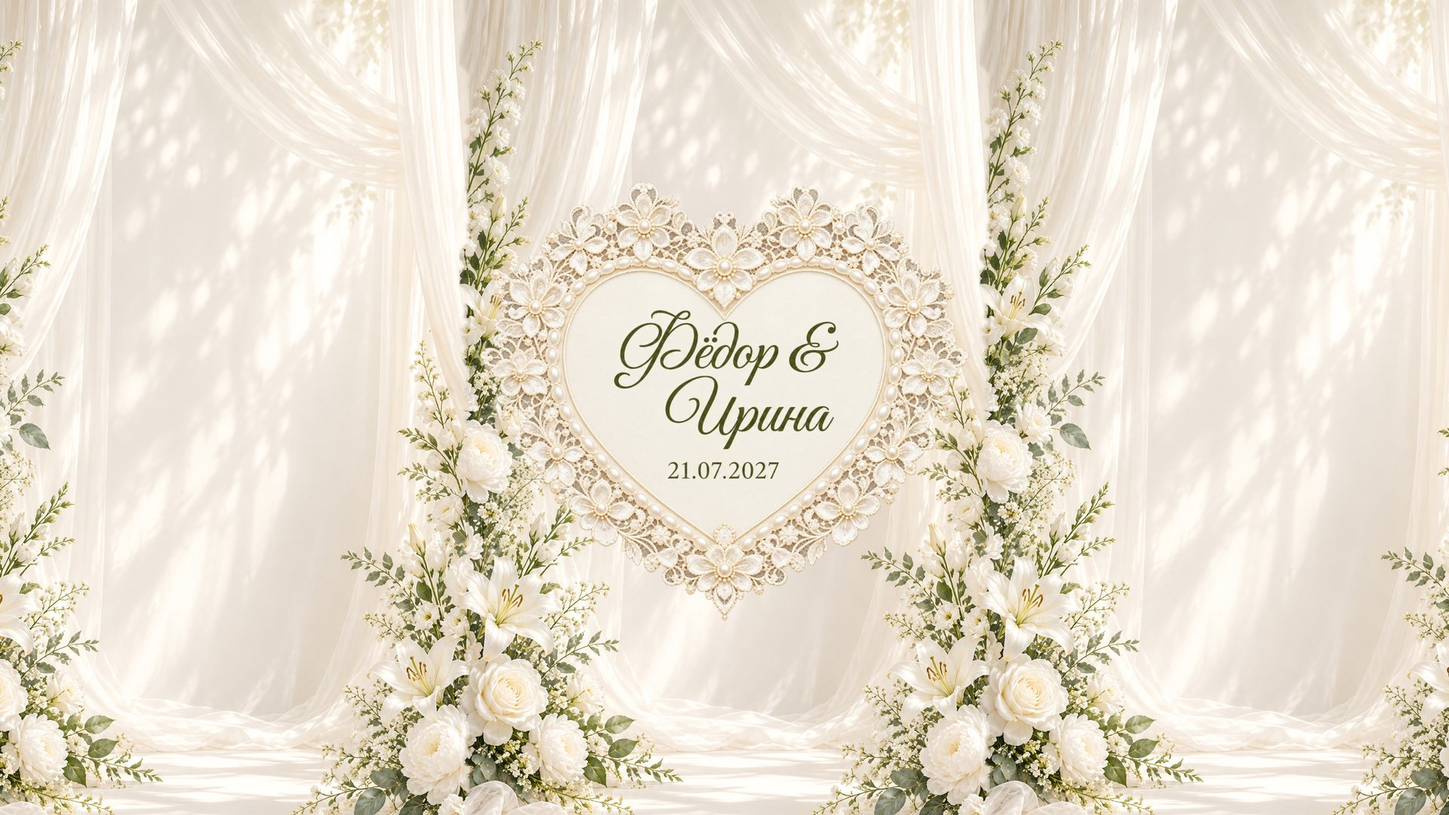
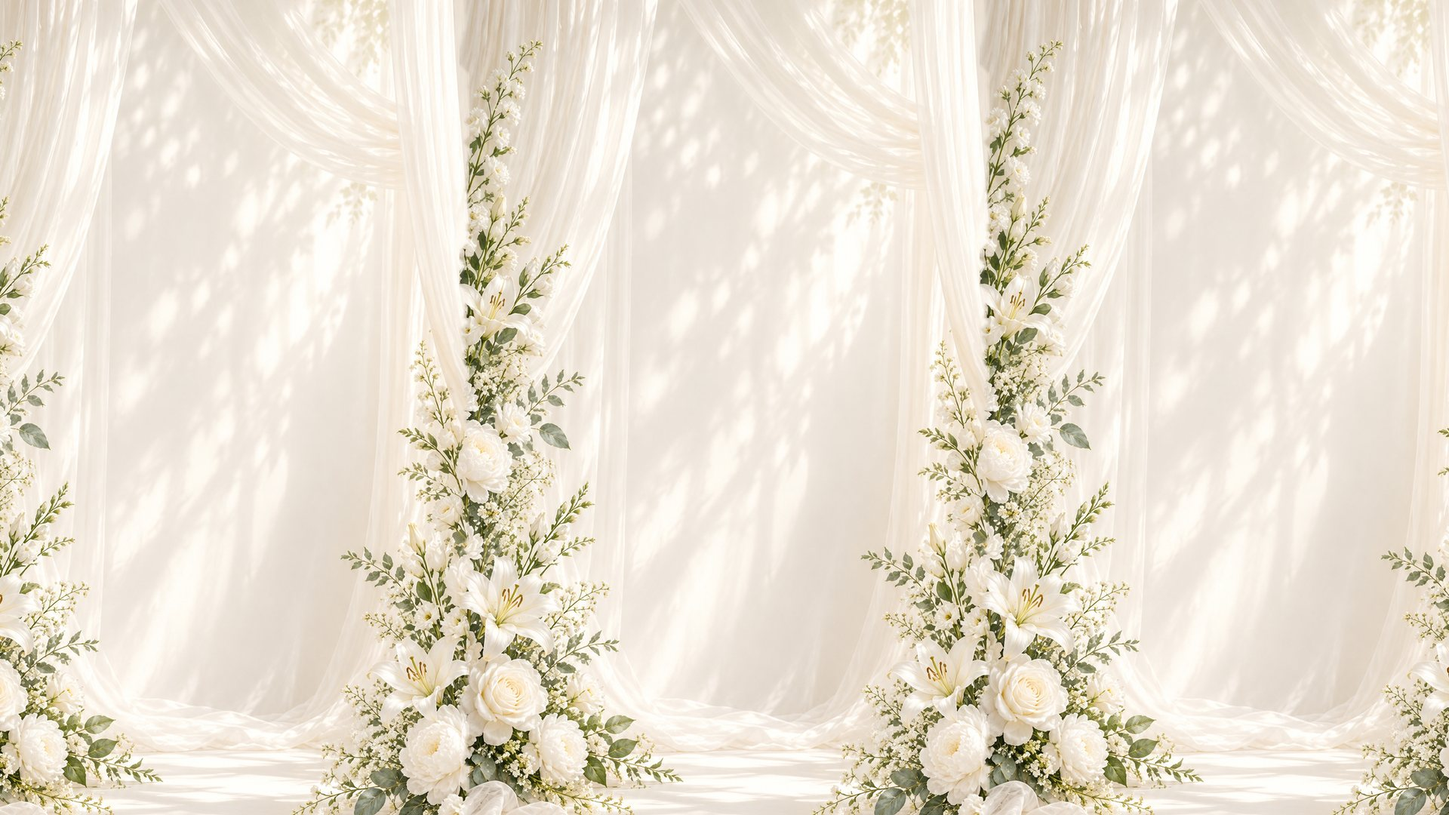
Animate the hero heart, fit the envelope, enlarge the program frame
- Hero: the sent photo split into layers – background without the heart,
  the heart with its centre cleared, the two name lines and the date –
  which together give exactly the photo. After the envelope opens the
  heart rises like the frames below, the names are written with a pen,
  then the date appears
- Envelope: on tablets and wider screens it is shown whole (78% of the
  screen height) on the page's curtain instead of being cropped; the
  lining is masked to the envelope's shape and the flap back gets the
  same rounded corners
- Address: white background showing through the lace (inside curls and
  between leaves) is now transparent; pearl highlights stay
- Program: 740 px wide so its gold frame matches the invite and
  dress-code frames

Claude-Session: https://claude.ai/code/session_01F539rLoJpLCsdJu3CTRbxi

Changed region(s): [[0.3125, 0.2139, 0.6875, 0.7333]]

diff --git a/style.css b/style.css
@@ -135,6 +135,9 @@ h1, h2, h3, p { margin: 0; }
   position: absolute;
   inset: 0;
   background: url(assets/img/env-inside.webp) 0 0 / 100% 100%;
+  /* по силуэту конверта: подкладка не выглядывает из скруглённых углов и прозрачного края картинки */
+  -webkit-mask: url(assets/img/env-body.webp) 0 0 / 100% 100% no-repeat;
+  mask: url(assets/img/env-body.webp) 0 0 / 100% 100% no-repeat;
 }
 .env__inside::after {   /* глубина кармана: темнее у петли */
   content: "";
@@ -192,6 +195,7 @@ h1, h2, h3, p { margin: 0; }
   inset: 0;
   clip-path: polygon(0 100%, 100% 100%, 100% 91.23%, 48.42% 49.28%, 0 89.86%);
   background: url(assets/img/env-inside.webp) 0 0 / 100% 100%;
+  border-radius: 0 0 7% 7% / 0 0 3.9% 3.9%;   /* углы – как у конверта (после поворота они сверху) */
   transform: rotateX(180deg);
   backface-visibility: hidden;
   -webkit-backface-visibility: hidden;
@@ -223,6 +227,14 @@ h1, h2, h3, p { margin: 0; }
 }
 .seal__img { width: 100%; height: 100%; filter: drop-shadow(0 8px 10px rgba(60, 40, 5, .35)); }
 
+/* планшеты, ноутбуки, 1920 × 1080: конверт целиком, на фоне той же шторы, что у сайта;
+   чуть ниже середины – письмо выдвигается вверх и остаётся в экране. Телефоны – конверт на весь экран */
+@media (min-aspect-ratio: 2 / 3) {
+  .js .intro { background: #efe9df url(assets/img/bg-sections.webp) 50% 0 / cover no-repeat; }
+  .env__card { --env-h: 78svh; top: 56%; width: calc(var(--env-h) * .5609); }
+  .env__body { filter: drop-shadow(0 3svh 4svh rgba(60, 48, 18, .28)); }
+}
+
 /* появление: только прозрачность – без масштаба и размытия */
 .js .intro .env__card { opacity: 0; }
 .js .intro .seal { opacity: 0; }
@@ -230,16 +242,15 @@ h1, h2, h3, p { margin: 0; }
 .intro.is-ready .seal { opacity: 1; transition: opacity .7s ease .5s, transform .16s var(--ease-out); }
 
 /* =========================================================
-   Обложка: присланное фото (сердце с фоном).
-   Альбомные экраны (1920 × 1080 и любые от 7:10) – та же сцена, продолженная вправо и влево,
-   на весь экран. Узкие – фото целиком, по краям то же фото, размытое: сердце не обрезается.
-   Слои лежат в одной ячейке сетки.
+   Обложка: присланное фото слоями – фон без сердца, сердце, имена и дата.
+   Сцена – кадр картинки фона, растянутый как cover (широкие экраны: сцена 1920 × 1080, продолженная вправо и влево)
+   или целиком по высоте (узкие: фото 1124 × 1999, по краям то же фото, размытое).
+   .hero__frame – место присланного фото в сцене; сердце и надписи – в процентах от него.
    ========================================================= */
 .hero {
   position: relative;
   display: grid;
   grid-template: minmax(0, 1fr) / minmax(0, 1fr);   /* одна ячейка ровно в размер экрана */
-  place-items: center;
   block-size: 100vh;
   block-size: 100svh;
   overflow: hidden;
@@ -249,33 +260,55 @@ h1, h2, h3, p { margin: 0; }
   -webkit-mask-image: linear-gradient(#000 94%, transparent);
   mask-image: linear-gradient(#000 94%, transparent);
 }
-.hero > *, .hero__pic > * { grid-area: 1 / 1; }
-.hero__pic { display: contents; }
-.hero__fill { inline-size: 100%; block-size: 100%; filter: blur(28px); scale: 1.15; }
-.hero__photo { inline-size: min(100%, 100vh * 1124 / 1999); }
-@supports (height: 100svh) { .hero__photo { inline-size: min(100%, 100svh * 1124 / 1999); } }
-/* размытое фото по краям грузится только на узких экранах */
+.hero__fill { grid-area: 1 / 1; filter: blur(28px); scale: 1.15; }
+.hero__scene {
+  position: absolute;
+  inset-block-start: 50%;
+  inset-inline-start: 50%;
+  inline-size: min(100vw, 100vh * 1124 / 1999);
+  aspect-ratio: 1124 / 1999;
+  translate: -50% -50%;
+}
+@supports (height: 100svh) { .hero__scene { inline-size: min(100vw, 100svh * 1124 / 1999); } }
+.hero__photo { inline-size: 100%; block-size: 100%; max-inline-size: none; }
+.hero__frame { position: absolute; inset: 0; }
+.hero__heart { position: absolute; inset-inline-start: 2.669%; inset-block-start: 20.31%; inline-size: 94.306%; }
+.hero__heart-img { inline-size: 100%; }
+.hero__name, .hero__date { position: absolute; max-inline-size: none; }
+.hero__name--1 { inset-inline-start: 27.925%; inset-block-start: 29.455%; inline-size: 45.377%; }
+.hero__name--2 { inset-inline-start: 38.208%; inset-block-start: 44.025%; inline-size: 33.962%; }
+.hero__date { inset-inline-start: 38.585%; inset-block-start: 63.103%; inline-size: 22.642%; }
+/* размытое фото по краям – только на узких экранах */
 @media (max-aspect-ratio: 7 / 10) {
-  .hero__fill { background: url(assets/img/hero.jpg) 50% 50% / cover; }
+  .hero__fill { background: url(assets/img/hero-bg.jpg) 50% 50% / cover; }
 }
 /* стык фото с размытыми полями – мягкий */
-@media (min-aspect-ratio: 1124 / 1999) {
-  .hero__photo { -webkit-mask-image: linear-gradient(90deg, transparent, #000 2.5%, #000 97.5%, transparent); mask-image: linear-gradient(90deg, transparent, #000 2.5%, #000 97.5%, transparent); }
+@media (min-aspect-ratio: 1124 / 1999) and (max-aspect-ratio: 7 / 10) {
+  .hero__scene { -webkit-mask-image: linear-gradient(90deg, transparent, #000 2.5%, #000 97.5%, transparent); mask-image: linear-gradient(90deg, transparent, #000 2.5%, #000 97.5%, transparent); }
 }
 @media (max-aspect-ratio: 1124 / 1999) {
-  .hero__photo { -webkit-mask-image: linear-gradient(transparent, #000 2%, #000 98%, transparent); mask-image: linear-gradient(transparent, #000 2%, #000 98%, transparent); }
+  .hero__scene { -webkit-mask-image: linear-gradient(transparent, #000 2%, #000 98%, transparent); mask-image: linear-gradient(transparent, #000 2%, #000 98%, transparent); }
 }
-/* широкие экраны: сцена 1920 × 1080 на весь экран, сердце по центру */
+/* широкие экраны: сцена 1920 × 1080 на весь экран (cover), фото – в её середине */
 @media (min-aspect-ratio: 7 / 10) {
   .hero__fill { display: none; }
-  .hero__photo { inline-size: 100%; block-size: 100%; max-inline-size: none; object-fit: cover; -webkit-mask-image: none; mask-image: none; }
+  .hero__scene { inline-size: max(100vw, 100vh * 1920 / 1080); aspect-ratio: 1920 / 1080; }
+  .hero__frame { inset: auto; inset-inline-start: 31.701%; inset-block-start: -1.852%; inline-size: 36.597%; block-size: 115.741%; }
 }
+@supports (height: 100svh) { @media (min-aspect-ratio: 7 / 10) { .hero__scene { inline-size: max(100vw, 100svh * 1920 / 1080); } } }
 
-/* после открытия конверта фото проявляется */
+/* после открытия конверта: фон проявляется, сердце поднимается, как рамки ниже, имена пишутся пером, затем дата */
 .js .hero__fill, .js .hero__photo { opacity: 0; }
 .js .hero__photo { scale: 1.03; }
 .is-opened .hero__fill { opacity: 1; transition: opacity 1.2s ease .1s; }
 .is-opened .hero__photo { opacity: 1; scale: 1; transition: opacity 1.4s ease .25s, scale 2.6s var(--ease-out-soft) .25s; }
+.js .hero__heart { opacity: 0; translate: 0 30px; scale: .94; }
+.is-opened .hero__heart { opacity: 1; translate: 0 0; scale: 1; transition: opacity 1.3s ease .5s, translate 1.8s var(--ease-out-soft) .5s, scale 1.8s var(--ease-out-soft) .5s; }
+.js .hero__name { clip-path: inset(-35% 104% -35% -8%); opacity: .2; }
+.is-opened .hero__name { clip-path: inset(-35% -8% -35% -8%); opacity: 1; transition: clip-path 1.6s var(--ease-write) 1.3s, opacity .5s ease 1.3s; }
+.is-opened .hero__name--2 { transition-delay: 2.3s; }
+.js .hero__date { opacity: 0; translate: 0 22px; filter: blur(5px); }
+.is-opened .hero__date { opacity: 1; translate: 0 0; filter: blur(0); transition: opacity 1s ease 3.3s, translate 1.2s var(--ease-out) 3.3s, filter 1s var(--ease-out) 3.3s; }
 
 /* =========================================================
    Секции: одна колонка по центру на любом экране
@@ -293,10 +326,14 @@ main {
 .sec--place { padding-block-end: clamp(48px, 9vw, 120px); }
 
 /* ---------- Рамки из присланных картинок: картинка – фон, текст – на сайте ---------- */
-/* «Приглашение», «Адрес» и «Дресс-код» крупнее: колонка шире, чем у остальных секций */
-.sec--invite .col, .sec--place .col, .sec--panel .col { --col: 740px; }
+/* рамки крупнее: колонка шире, чем у финала */
+.sec--invite .col, .sec--place .col, .sec--program .col, .sec--panel .col { --col: 740px; }
 .oval, .frame { position: relative; inline-size: 96cqi; margin-inline: auto; container-type: inline-size; }
 .oval__img, .frame__img { inline-size: 100%; filter: drop-shadow(0 22px 30px rgba(60, 62, 40, .16)); }
+
+/* «Программа»: в кадре вокруг рамы больше пустого поля – картинка шире, чтобы золотая рама была
+   той же ширины, что у «Приглашения» и «Дресс-кода» (≈ 83 % против 85–87 %) */
+@container (min-width: 600px) { .frame { inline-size: 100cqi; } }
 
 /* Широкие экраны (1920 × 1080, ноутбуки): секция не ниже экрана, рамка по центру */
 @media (min-aspect-ratio: 1 / 1) and (min-height: 600px) {
@@ -307,7 +344,6 @@ main {
     padding-block: 3.5vh;
     padding-block: 3.5svh;
   }
-  .frame { inline-size: min(96cqi, max(420px, 93svh * 1024 / 1536)); }
 }
 
 /* ---------- Рамки, растущие под текст: «Приглашение» и «Дресс-код» ----------
@@ -809,10 +845,11 @@ main {
   .rsvp-done__heart, .ask[open] { animation: none !important; }
   [data-bloom].is-settled { animation: none !important; opacity: 1; }
   .js [data-reveal], .js [data-bloom], .js .prog li > *, .js .countdown, .js .countdown div, .js .countdown em, .js .hero__photo,
+  .js .hero__heart, .js .hero__date,
   .js .divider b, .js .cal > *, .js .cal__day--heart::before {
     translate: none !important; rotate: none !important; scale: none !important; filter: none !important;
   }
-  .js .divider::before, .js .divider::after, .js .rule::before { clip-path: none !important; }
+  .js .divider::before, .js .divider::after, .js .rule::before, .js .hero__name { clip-path: none !important; }
   .js [data-write] > .ink { clip-path: none !important; opacity: 0; }
   .js [data-write].is-in > .ink { opacity: 1; transition: opacity .6s ease; }
   .hero, .hero * { transition-duration: .6s !important; transition-delay: 0s !important; }

diff --git a/index.html b/index.html
@@ -12,8 +12,9 @@
   <link rel="preload" href="assets/img/env-flap.webp" as="image">
   <link rel="preload" href="assets/img/env-seal.webp" as="image">
   <link rel="preload" href="assets/img/env-inside.webp" as="image">
-  <link rel="preload" href="assets/img/hero.jpg" as="image" media="(max-aspect-ratio: 7/10)">
-  <link rel="preload" as="image" imagesrcset="assets/img/hero-wide.jpg 1920w, assets/img/hero-wide-2880.jpg 2880w" imagesizes="100vw" media="(min-aspect-ratio: 7/10)">
+  <link rel="preload" href="assets/img/hero-bg.jpg" as="image" media="(max-aspect-ratio: 7/10)">
+  <link rel="preload" as="image" imagesrcset="assets/img/hero-wide.jpg 1920w, assets/img/hero-wide-2880.jpg 2880w" imagesizes="(min-aspect-ratio: 16/9) 100vw, 178vh" media="(min-aspect-ratio: 7/10)">
+  <link rel="preload" href="assets/img/hero-heart.webp" as="image">
   <link rel="preload" href="assets/fonts/cormorant-cyr.woff2" as="font" type="font/woff2" crossorigin>
   <link rel="preload" href="assets/fonts/greatvibes-cyr.woff2" as="font" type="font/woff2" crossorigin>
   <link rel="stylesheet" href="style.css">
@@ -54,15 +55,26 @@
     </div>
   </div>
 
-  <!-- ============ ОБЛОЖКА: присланное фото сердца с фоном ============ -->
+  <!-- ============ ОБЛОЖКА: присланное фото слоями – фон, сердце, имена и дата ============ -->
   <!-- широкие экраны (1920 × 1080 и любые альбомные) – та же сцена, продолженная вправо и влево;
-       узкие – присланное фото целиком, по краям то же фото размытое -->
+       узкие – присланное фото целиком, по краям то же фото размытое. Сердце проявляется, как рамки ниже,
+       имена пишутся пером. Вместе слои дают ровно присланное фото. -->
   <header class="hero" id="top">
     <div class="hero__fill" aria-hidden="true"></div>
-    <picture class="hero__pic">
-      <source media="(min-aspect-ratio: 7/10)" srcset="assets/img/hero-wide.jpg 1920w, assets/img/hero-wide-2880.jpg 2880w" sizes="100vw" width="1920" height="1080">
-      <img class="hero__photo" src="assets/img/hero.jpg" alt="" width="1124" height="1999" decoding="async">
-    </picture>
+    <div class="hero__scene" aria-hidden="true">
+      <picture>
+        <source media="(min-aspect-ratio: 7/10)" srcset="assets/img/hero-wide.jpg 1920w, assets/img/hero-wide-2880.jpg 2880w" sizes="(min-aspect-ratio: 16/9) 100vw, 178vh" width="1920" height="1080">
+        <img class="hero__photo" src="assets/img/hero-bg.jpg" alt="" width="1124" height="1999" decoding="async">
+      </picture>
+      <div class="hero__frame">
+        <div class="hero__heart">
+          <img class="hero__heart-img" src="assets/img/hero-heart.webp" alt="" width="1060" height="954" decoding="async">
+          <img class="hero__name hero__name--1" src="assets/img/hero-name-1.webp" alt="" width="481" height="170" decoding="async">
+          <img class="hero__name hero__name--2" src="assets/img/hero-name-2.webp" alt="" width="360" height="161" decoding="async">
+          <img class="hero__date" src="assets/img/hero-date.webp" alt="" width="240" height="42" decoding="async">
+        </div>
+      </div>
+    </div>
     <h1 class="sr-only">Фёдор и Ирина – 21.07.2027</h1>
   </header>
 

diff --git a/tools/cut.py b/tools/cut.py
@@ -241,9 +241,9 @@ def min_cut(A, B, block):
 
 
 def hero_wide(ph, bg, W, H):
-    """Обложка для широких экранов: присланная сцена, продолженная вправо и влево.
+    """Фон обложки для широких экранов: присланная сцена без сердца, продолженная вправо и влево.
     Фон без сердца (bg-hero.png – тот же кадр) повторён слева и справа; стыки идут по линии
-    наименьшей разницы, поэтому шторы и цветы продолжаются без шва. Сердце – пиксели фото."""
+    наименьшей разницы, поэтому шторы и цветы продолжаются без шва. Сердце – отдельный слой (hero_heart)."""
     Hs = round(H * 1250 / 1080)               # сцена чуть выше экрана: сердце крупнее, край пола уходит вниз
     Ws = round(Hs * ph.width / ph.height)
     p = np.asarray(ph.resize((Ws, Hs), Image.LANCZOS)).astype(float)
@@ -266,26 +266,85 @@ def hero_wide(ph, bg, W, H):
     out[:, xs] = b[:, np.where(c >= Ws, 2 * Ws - c - 1, c)]
     m = min_cut(b[:, Ws - ov:], b[:, :ov], keep[:, Ws - ov:])[..., None]
     out[:, t0:x0 + Ws] = b[:, Ws - ov:] * (1 - m) + b[:, :ov] * m
-    hm = ndi.gaussian_filter(ndi.binary_dilation(heart, iterations=6).astype(float), 3)[..., None]
-    out[:, x0:x0 + Ws] = out[:, x0:x0 + Ws] * (1 - hm) + p * hm
     y0 = round(H * 20 / 1080)
+    print('  фото в широкой сцене: left %.3f%% top %.3f%% width %.3f%% height %.3f%%'
+          % (100 * x0 / W, -100 * y0 / H, 100 * Ws / W, 100 * Hs / H))
     return Image.fromarray(np.clip(out[y0:y0 + H], 0, 255).astype(np.uint8))
 
 
+def heart_mask(p, b):
+    """Сердце на фото: всё, чем фото отличается от того же кадра без сердца (самый большой кусок, без дыр)."""
+    heart = ndi.binary_fill_holes(ndi.binary_closing(np.abs(p - b).max(2) > 30, iterations=5))
+    lab, n = ndi.label(heart)
+    return lab == 1 + ndi.sum(heart, lab, range(1, n + 1)).argmax()
+
+
 def hero():
-    """Обложка: присланное фото (без тёмной каймы скриншота в 1 px) и широкие версии 1920 × 1080 и 2880 × 1620."""
+    """Обложка слоями: фон без сердца (узкий кадр – hero-bg.jpg, широкие 1920 × 1080 и 2880 × 1620),
+    сердце из присланного фото без надписей и надписи отдельно – на сайте сердце проявляется, имена пишутся.
+    Поверх фона слои дают ровно присланное фото. Тёмная кайма скриншота в 1 px срезана."""
     ph = Image.open(os.path.join(SRC, 'hero.jpg')).convert('RGB')
     box = (1, 0, ph.width - 1, ph.height - 1)
     bg = Image.open(os.path.join(SRC, 'bg-hero.png')).convert('RGB').resize(ph.size, Image.LANCZOS).crop(box)
     ph = ph.crop(box)
-    path = os.path.join(DST, 'hero.jpg')
-    ph.save(path, quality=86, optimize=True, progressive=True)
-    print(f'hero.jpg {ph.width}x{ph.height} {os.path.getsize(path) // 1024} KB')
+    p, b = np.asarray(ph).astype(float), np.asarray(bg).astype(float)
+    heart = heart_mask(p, b)
+    hm = ndi.gaussian_filter(ndi.binary_dilation(heart, iterations=6).astype(float), 3)
+    narrow = Image.fromarray(np.clip(p * (1 - hm[..., None]) + b * hm[..., None], 0, 255).astype(np.uint8))
     big = hero_wide(ph, bg, 2880, 1620)              # собирается один раз; 1920 × 1080 – уменьшенная копия
-    for name, im in (('hero-wide-2880', big), ('hero-wide', big.resize((1920, 1080), Image.LANCZOS))):
+    for name, im in (('hero-bg', narrow), ('hero-wide-2880', big), ('hero-wide', big.resize((1920, 1080), Image.LANCZOS))):
         path = os.path.join(DST, name + '.jpg')
         im.save(path, quality=84, optimize=True, progressive=True)
         print(f'{name}.jpg {im.width}x{im.height} {os.path.getsize(path) // 1024} KB')
+    hero_heart(p, heart, hm)
+
+
+def hero_heart(p, heart, hm):
+    """Сердце: бумага в середине очищена от имён и даты (гладкая заливка + зерно бумаги); имена в две строки
+    и дата – отдельными картинками, цвет восстановлен так, что поверх очищенной бумаги получается фото.
+    Печатает положение слоёв для style.css: сердце – в % кадра фото 1124 × 1999, надписи – в % сердца."""
+    H, W = heart.shape
+    lum = p.mean(2)
+    ys, xs = np.where(heart)
+    seed = (int(ys.mean()), int(xs.mean()))                  # середина сердца – чистая бумага
+    m = ndi.uniform_filter(lum, 7)
+    sd = np.sqrt(np.clip(ndi.uniform_filter(lum ** 2, 7) - m ** 2, 0, None))
+    lab, _ = ndi.label(ndi.binary_opening((sd < 3) & (np.abs(p - p[seed]).max(2) < 14), iterations=2))
+    paper = lab == lab[seed]
+    field = ndi.binary_fill_holes(ndi.binary_closing(paper, iterations=40))
+    field[:ys.min() + 230] = paper[:ys.min() + 230]          # у выемки сверху – только сама бумага
+    near = np.stack([ndi.median_filter(p[..., c], size=31) for c in range(3)], -1)
+    dark = near.mean(2) - lum > 10
+    ink = dark & ndi.binary_erosion(field, iterations=6)
+    for _ in range(10):                                      # кончики росчерков у самого края бумаги
+        ink |= ndi.binary_dilation(ink) & dark & ndi.binary_erosion(field, iterations=1)
+    hole = ndi.binary_dilation(ink, iterations=4)
+    clean = np.where(hole[..., None], smooth_fill(p, paper & ~hole, 4), p)
+    clean = grain_like(clean, hole, paper & ~hole)
+    y0, y1 = np.where(hm.max(1) > .01)[0][[0, -1]]
+    x0, x1 = np.where(hm.max(0) > .01)[0][[0, -1]]
+    y1, x1 = y1 + 1, x1 + 1
+    save_full('hero-heart', clean[y0:y1, x0:x1], hm[y0:y1, x0:x1], quality=88)
+    print('  .hero__heart: left %.3f%% top %.3f%% width %.3f%%' % (100 * x0 / W, 100 * y0 / H, 100 * (x1 - x0) / W))
+    # строки: «Фёдор &», «Ирина», дата – по середине каждого штриха
+    lab, n = ndi.label(ndi.binary_dilation(ink, iterations=2))
+    cy = np.array(ndi.center_of_mass(ink, lab, range(1, n + 1)))[:, 0]
+    rows = np.where(ink.any(1))[0]
+    date_top = rows[np.where(np.diff(rows) > 8)[0][-1] + 1]  # дата – отдельно, ниже пустой полосы
+    d = np.linalg.norm(p - clean, axis=2)
+    full = np.percentile(d[ndi.binary_erosion(ink, iterations=2)], 90)
+    for name, sel in (('hero-name-1', cy < (ys.min() + 410)), ('hero-name-2', (cy >= ys.min() + 410) & (cy < date_top)),
+                      ('hero-date', cy >= date_top)):
+        part = np.isin(lab, 1 + np.where(sel)[0]) & ink
+        area = ndi.binary_dilation(part, iterations=3)
+        a = np.clip(d / full, 0, 1) * area
+        a[a < .03] = 0
+        col = clean + (p - clean) / np.maximum(a, 1e-3)[..., None]
+        ly, lx = np.where(a > 0)
+        ly0, ly1, lx0, lx1 = ly.min(), ly.max() + 1, lx.min(), lx.max() + 1
+        save_full(name, col[ly0:ly1, lx0:lx1], a[ly0:ly1, lx0:lx1], quality=92)
+        print('  %s: left %.3f%% top %.3f%% width %.3f%%' % (name, 100 * (lx0 - x0) / (x1 - x0), 100 * (ly0 - y0) / (y1 - y0),
+                                                            100 * (lx1 - lx0) / (x1 - x0)))
 
 
 def erase_text(rgb, alpha, seed_box, boxes):
@@ -410,11 +469,22 @@ def cut_black(rgb):
 
 
 def cut_white(rgb, white=254.):
-    """Фон – белый вокруг рамки: прозрачный; край – доля отличия от белого у ближайшего пикселя изнутри."""
-    cand = (rgb.mean(2) >= 240) & (rgb.max(2) - rgb.min(2) <= 6)
+    """Фон – белый вокруг рамки: прозрачный, вместе с просветами внутри кружева (белые пятна в завитках и между
+    листьями: вокруг них – золото). Блики на жемчуге (вокруг – светлый перламутр) и тонкие блики по краям листьев
+    остаются. Край – доля отличия от белого у ближайшего пикселя изнутри."""
+    lum = rgb.mean(2)
+    cand = (lum >= 240) & (rgb.max(2) - rgb.min(2) <= 6)
     lab, n = ndi.label(cand)
+    idx = np.arange(1, n + 1)
     edge = np.unique(np.concatenate([lab[0], lab[-1], lab[:, 0], lab[:, -1]]))
-    fg = ~np.isin(lab, edge[edge > 0])
+    ring = ndi.grey_dilation(lab, size=5) * (lab == 0)        # соседи каждого пятна
+    dark_ring = ndi.mean(lum, ring, idx) < 220
+    thick = ndi.sum(ndi.binary_erosion(cand), lab, idx) >= 4   # не тонкая линия блика
+    hole = np.zeros(n + 1, bool)
+    hole[1:] = dark_ring & thick
+    hole[edge] = True
+    hole[0] = False
+    fg = ~hole[lab]
     return edge_alpha(rgb, fg, lambda P, F: (white - P).sum(2) / np.maximum((white - F).sum(2), 1), 0)
 
 

diff --git a/README.md b/README.md
@@ -9,24 +9,26 @@
 Посмотреть у себя: двойной клик по `index.html`.
 
 Сайт масштабируется под любой экран: телефон (и боком), планшет, ноутбук, большой монитор.
-На альбомных экранах (1920 × 1080 и любых других) каждая секция – ровно экран: обложка во всю ширину,
-каждая рамка целиком помещается по высоте и стоит по центру.
-Движение: клапан конверта откидывается вместе с печатью, обложка мягко проявляется,
-заголовки на рамках и имена в финале «пишутся» пером, золотые разделители расходятся от звёздочки,
+На альбомных экранах (1920 × 1080 и любых других) обложка – во всю ширину, конверт – целиком по высоте экрана,
+рамки – крупно, по центру (высокие рамки длиннее экрана).
+Движение: клапан конверта откидывается вместе с печатью, обложка мягко проявляется, сердце на ней поднимается,
+как рамки ниже, имена на сердце, заголовки на рамках и имена в финале «пишутся» пером, золотые разделители расходятся от звёздочки,
 дни календаря и пункты программы появляются по очереди, цветы внизу мягко покачиваются.
 Бликов и световой пыли нет.
 Если в системе отключены анимации, всё показывается без движения.
 
 ## Что на странице
 
-1. **Лицо открытки** – конверт на весь экран: по нажатию клапан вместе с целой печатью откидывается на петле, из кармана выдвигается письмо, затем конверт растворяется (около 3,5 секунды).
-2. **Обложка** – кружевное сердце с именами и датой на фоне штор и цветов.
+1. **Лицо открытки** – конверт: на телефоне – на весь экран, на планшете и компьютере – целиком, на фоне шторы. По нажатию клапан вместе с целой печатью откидывается на петле, из кармана выдвигается письмо, затем конверт растворяется (около 3,5 секунды).
+2. **Обложка** – кружевное сердце с именами и датой на фоне штор и цветов. Фото разложено на слои (фон, сердце,
+   имена, дата) – после открытия конверта сердце проявляется, имена пишутся, затем появляется дата.
    На альбомных экранах – сцена 1920 × 1080: присланное фото, продолженное вправо и влево тем же фоном
    (шторы и цветы без шва, без размытия). На узких экранах – присланное фото целиком, по краям то же фото, размытое.
 3. **Приглашение** и календарь июля – присланная «Рамка 1»; текст и календарь живые, расположены как на образце.
-4. **Адрес** – присланная жемчужная рамка (из Figma) в кадре образца 1024 × 1536; текст живой, линии с лилией
+4. **Адрес** – присланная жемчужная рамка (из Figma) в кадре образца 1024 × 1536, белый фон в просветах кружева
+   убран; текст живой, линии с лилией
    и подвеска под «Открыть на карте» – с образца.
-5. **Программа дня** – присланная рамка; время, подписи и стрелки со звёздочками – как на макете, текст живой.
+5. **Программа дня** – присланная рамка, по ширине золотой рамы – вровень с «Приглашением» и «Дресс-кодом»; время, подписи и стрелки со звёздочками – как на макете, текст живой.
 6–8. **Дресс-код, Фото, Анкета** – присланная «Рамка 2»; текст, поле имени, кружки и кнопка «Отправить» – живые,
    как на образце. После «Отправить» ответ уходит в Google Форму
    (`forms.gle/tFGab39fcvPiubak7`), в окне – «Спасибо!».
@@ -49,14 +51,17 @@
 ## Графика
 
 Все присланные картинки лежат в `tools/src`, `python3 tools/cut.py` готовит их для сайта (в `assets/img`):
-- обложка: `hero.jpg` – присланное фото (срезана тёмная кайма скриншота в 1 px); `hero-wide.jpg` (1920 × 1080)
-  и `hero-wide-2880.jpg` (для чётких экранов) – та же сцена шире: фон без сердца повторён слева и справа,
-  стыки проходят там, где картинки совпадают сильнее всего, сердце с именами – пиксели присланного фото;
+- обложка – присланное фото слоями (срезана тёмная кайма скриншота в 1 px): фон без сердца – `hero-bg.jpg`
+  (узкие экраны), `hero-wide.jpg` (1920 × 1080) и `hero-wide-2880.jpg` (для чётких экранов) – та же сцена шире,
+  фон повторён слева и справа, стыки проходят там, где картинки совпадают сильнее всего; `hero-heart.webp` – сердце
+  с фото, бумага в середине очищена от надписей; `hero-name-1.webp`, `hero-name-2.webp`, `hero-date.webp` – имена
+  и дата с фото. Вместе слои дают ровно присланное фото, их места в `style.css` печатает `cut.py`;
 - рамки – присланные, оформление не менялось, текст – на сайте:
   `frame-invite.webp` – «Рамка 1» (`frame-1.webp`, слои SVG сведены), чёрный фон вокруг – прозрачный, с поля убраны
   разделитель, линии и сердце (звёздочка `orn-sparkle.webp` и сердце `orn-heart.webp` – отдельно, на сайте);
   `frame-dress.webp` – «Рамка 2» (`frame-2.webp`), лилия у «оставить для невесты» – `orn-lily.webp` с образца;
-  `frame-place.webp` – жемчужная рамка из Figma (`frame-pearl.webp`, 1086 × 1448), белый фон – прозрачный,
+  `frame-place.webp` – жемчужная рамка из Figma (`frame-pearl.webp`, 1086 × 1448), белый фон вокруг и в просветах
+  кружева – прозрачный (блики на жемчуге остаются),
   приведена к кадру образца 1024 × 1536; линии с лилией и подвеска – `orn-rule*.webp`, `orn-pendant.webp` с образца;
   образцы из архива – `tools/src/sample-*`;
 - рамка «Программа» – поле очищено от текста-образца (время берётся с сайта), стрелка со звёздочкой – `orn-star.webp`;
